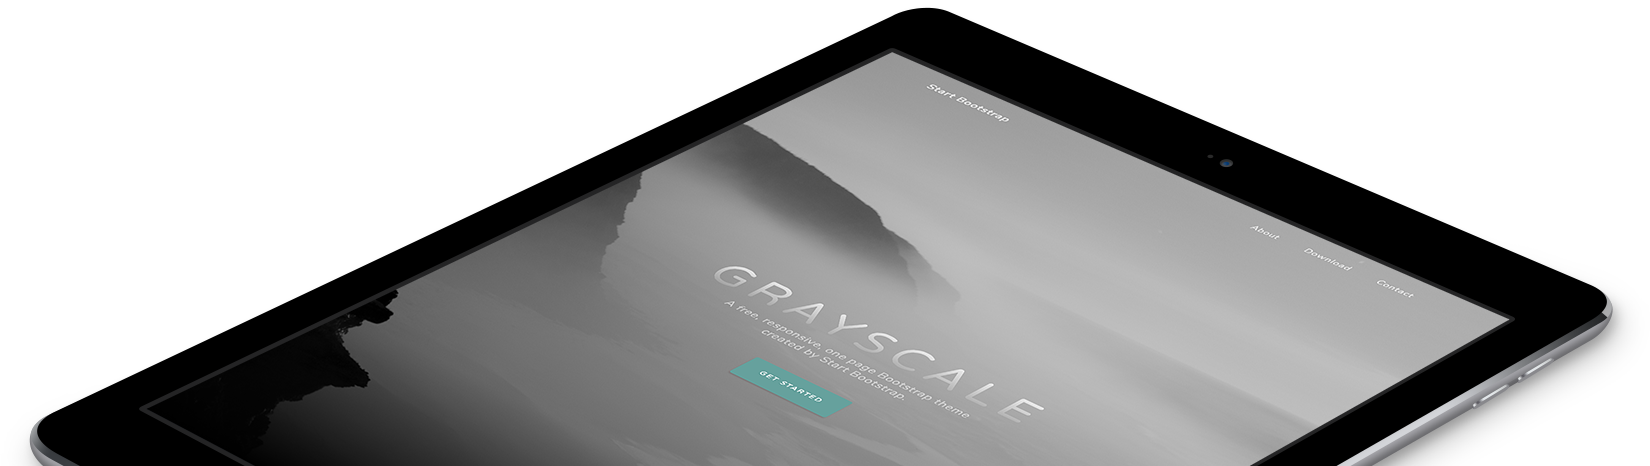
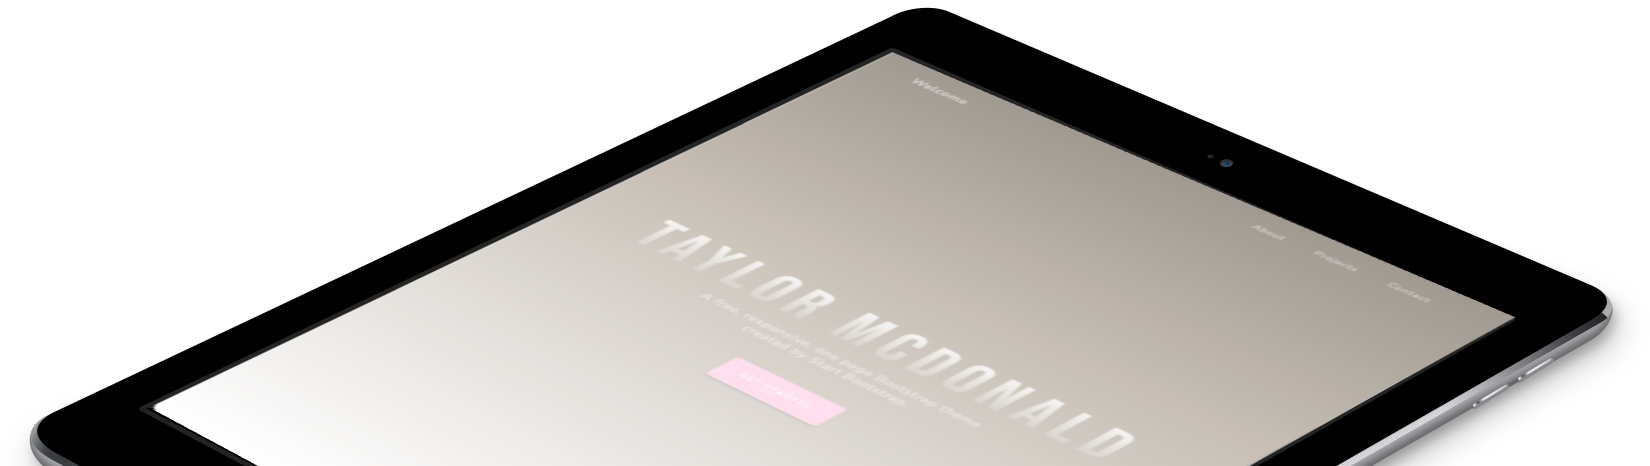
added second edited files

diff --git a/index.html b/index.html
@@ -14,12 +14,18 @@
         <link href="https://fonts.googleapis.com/css?family=Nunito:200,200i,300,300i,400,400i,600,600i,700,700i,800,800i,900,900i" rel="stylesheet" />
         <!-- Core theme CSS (includes Bootstrap)-->
         <link href="css/styles.css" rel="stylesheet" />
+
+
+        <!--added things tehe-->
+        <link rel="preconnect" href="https://fonts.googleapis.com">
+<link rel="preconnect" href="https://fonts.gstatic.com" crossorigin>
+<link href="https://fonts.googleapis.com/css2?family=Bebas+Neue&display=swap" rel="stylesheet">
     </head>
     <body id="page-top">
         <!-- Navigation-->
         <nav class="navbar navbar-expand-lg navbar-light fixed-top" id="mainNav">
             <div class="container px-4 px-lg-5">
-                <a class="navbar-brand" href="#page-top">Start Bootstrap</a>
+                <a class="navbar-brand" href="#page-top">Welcome</a>
                 <button class="navbar-toggler navbar-toggler-right" type="button" data-bs-toggle="collapse" data-bs-target="#navbarResponsive" aria-controls="navbarResponsive" aria-expanded="false" aria-label="Toggle navigation">
                     Menu
                     <i class="fas fa-bars"></i>
@@ -38,7 +44,7 @@
             <div class="container px-4 px-lg-5 d-flex h-100 align-items-center justify-content-center">
                 <div class="d-flex justify-content-center">
                     <div class="text-center">
-                        <h1 class="mx-auto my-0 text-uppercase">Grayscale</h1>
+                        <h1 class="mx-auto my-0 text-uppercase">Taylor McDonald</h1>
                         <h2 class="text-white-50 mx-auto mt-2 mb-5">A free, responsive, one page Bootstrap theme created by Start Bootstrap.</h2>
                         <a class="btn btn-primary" href="#about">Get Started</a>
                     </div>
@@ -50,8 +56,8 @@
             <div class="container px-4 px-lg-5">
                 <div class="row gx-4 gx-lg-5 justify-content-center">
                     <div class="col-lg-8">
-                        <h2 class="text-white mb-4">Built with Bootstrap 5</h2>
-                        <p class="text-white-50">
+                        <h2 style="color: #9B7D61;">ABOUT ME</h2>
+                        <p style="color: #9B7D61;"> 
                             Grayscale is a free Bootstrap theme created by Start Bootstrap. It can be yours right now, simply download the template on
                             <a href="https://startbootstrap.com/theme/grayscale/">the preview page.</a>
                             The theme is open source, and you can use it for any purpose, personal or commercial.
@@ -66,14 +72,23 @@
             <div class="container px-4 px-lg-5">
                 <!-- Featured Project Row-->
                 <div class="row gx-0 mb-4 mb-lg-5 align-items-center">
-                    <div class="col-xl-8 col-lg-7"><img class="img-fluid mb-3 mb-lg-0" src="assets/img/bg-masthead.jpg" alt="..." /></div>
+                    <div class="col-xl-8 col-lg-7"><img class="img-fluid mb-3 mb-lg-0" src="assets/img/ss1.png" alt="..." /></div>
                     <div class="col-xl-4 col-lg-5">
                         <div class="featured-text text-center text-lg-left">
-                            <h4>Shoreline</h4>
-                            <p class="text-black-50 mb-0">Grayscale is open source and MIT licensed. This means you can use it for any project - even commercial projects! Download it, customize it, and publish your website!</p>
+                            <h4>EUVRAIN</h4>
+                            <p class="text-black-50 mb-0">Euvrain is my first personal website. This interactive website showcases a modern, Y2K-inspired design Madlib generator and a 'Guess the Number' game, both built using HTML, CSS, and JavaScript. The Madlib generator allows users to create short funny and engaging stories by filling in blanks with their own words. The 'Guess the Number' game challenges players to guess a randomly generated number with a celebratory confetti animation for correct guesses.  I also feature some 3D characters I made on Blender.</p>
                         </div>
                     </div>
                 </div>
+
+                <section > <div class="project-text w-100 my-auto text-center text-lg-left">
+                    <h1 class="text-black" id="WIP">Works In Progress</h1>
+                    
+                </div>
+            
+                </section>
+
+
                 <!-- Project One Row-->
                 <div class="row gx-0 mb-5 mb-lg-0 justify-content-center">
                     <div class="col-lg-6"><img class="img-fluid" src="assets/img/demo-image-01.jpg" alt="..." /></div>
@@ -81,8 +96,8 @@
                         <div class="bg-black text-center h-100 project">
                             <div class="d-flex h-100">
                                 <div class="project-text w-100 my-auto text-center text-lg-left">
-                                    <h4 class="text-white">Misty</h4>
-                                    <p class="mb-0 text-white-50">An example of where you can put an image of a project, or anything else, along with a description.</p>
+                                    <h4 class="text-white">To-Do List App</h4>
+                                    <p class="mb-0 text-white-50">A To-Do List app designed to help people with ADHD manage their tasks more effectively. It will integrate features tailored to reduce the feeling of being overwhelmed, maintain focus, and encourage productivity. The app will provide a supportive and user-friendly interface that accommodates the needs of individuals with ADHD, promoting a balanced and organized approach to daily activities.</p>
                                 </div>
                             </div>
                         </div>
@@ -95,8 +110,8 @@
                         <div class="bg-black text-center h-100 project">
                             <div class="d-flex h-100">
                                 <div class="project-text w-100 my-auto text-center text-lg-right">
-                                    <h4 class="text-white">Mountains</h4>
-                                    <p class="mb-0 text-white-50">Another example of a project with its respective description. These sections work well responsively as well!</p>
+                                    <h4 class="text-white">AI Plant/Crop Health Monitor</h4>
+                                    <p class="mb-0 text-white-50">An AI-driven crop health monitoring and management system designed to help gardeners and farmers optimize their agricultural practices. Utilizing advanced computer vision and machine learning techniques, this app will provide real-time analysis and insights into the health of crops, enabling gardeners/farmers to take proactive measures to prevent and mitigate plant/crop damage</p>
                                 </div>
                             </div>
                         </div>
@@ -109,8 +124,7 @@
             <div class="container px-4 px-lg-5">
                 <div class="row gx-4 gx-lg-5">
                     <div class="col-md-10 col-lg-8 mx-auto text-center">
-                        <i class="far fa-paper-plane fa-2x mb-2 text-white"></i>
-                        <h2 class="text-white mb-5">Subscribe to receive updates!</h2>
+                      
                         <!-- * * * * * * * * * * * * * * *-->
                         <!-- * * SB Forms Contact Form * *-->
                         <!-- * * * * * * * * * * * * * * *-->
@@ -118,80 +132,43 @@
                         <!-- To make this form functional, sign up at-->
                         <!-- https://startbootstrap.com/solution/contact-forms-->
                         <!-- to get an API token!-->
-                        <form class="form-signup" id="contactForm" data-sb-form-api-token="API_TOKEN">
-                            <!-- Email address input-->
-                            <div class="row input-group-newsletter">
-                                <div class="col"><input class="form-control" id="emailAddress" type="email" placeholder="Enter email address..." aria-label="Enter email address..." data-sb-validations="required,email" /></div>
-                                <div class="col-auto"><button class="btn btn-primary disabled" id="submitButton" type="submit">Notify Me!</button></div>
-                            </div>
-                            <div class="invalid-feedback mt-2" data-sb-feedback="emailAddress:required">An email is required.</div>
-                            <div class="invalid-feedback mt-2" data-sb-feedback="emailAddress:email">Email is not valid.</div>
-                            <!-- Submit success message-->
-                            <!---->
-                            <!-- This is what your users will see when the form-->
-                            <!-- has successfully submitted-->
-                            <div class="d-none" id="submitSuccessMessage">
-                                <div class="text-center mb-3 mt-2 text-white">
-                                    <div class="fw-bolder">Form submission successful!</div>
-                                    To activate this form, sign up at
-                                    <br />
-                                    <a href="https://startbootstrap.com/solution/contact-forms">https://startbootstrap.com/solution/contact-forms</a>
-                                </div>
-                            </div>
-                            <!-- Submit error message-->
-                            <!---->
-                            <!-- This is what your users will see when there is-->
-                            <!-- an error submitting the form-->
-                            <div class="d-none" id="submitErrorMessage"><div class="text-center text-danger mb-3 mt-2">Error sending message!</div></div>
-                        </form>
+                       
                     </div>
                 </div>
             </div>
         </section>
+
+
         <!-- Contact-->
         <section class="contact-section bg-black">
             <div class="container px-4 px-lg-5">
                 <div class="row gx-4 gx-lg-5">
-                    <div class="col-md-4 mb-3 mb-md-0">
-                        <div class="card py-4 h-100">
-                            <div class="card-body text-center">
-                                <i class="fas fa-map-marked-alt text-primary mb-2"></i>
-                                <h4 class="text-uppercase m-0">Address</h4>
-                                <hr class="my-4 mx-auto" />
-                                <div class="small text-black-50">4923 Market Street, Orlando FL</div>
-                            </div>
-                        </div>
-                    </div>
+                    
+                    <div class="container px-4 px-lg-5 align-items-center justify-content-center">
+                        <div class="d-flex justify-content-center">
+
                     <div class="col-md-4 mb-3 mb-md-0">
                         <div class="card py-4 h-100">
                             <div class="card-body text-center">
                                 <i class="fas fa-envelope text-primary mb-2"></i>
                                 <h4 class="text-uppercase m-0">Email</h4>
                                 <hr class="my-4 mx-auto" />
-                                <div class="small text-black-50"><a href="#!">hello@yourdomain.com</a></div>
+                                <div class="small text-black-50"><a href="#!">taylormcdoc@gmail.com</a></div>
                             </div>
                         </div>
                     </div>
-                    <div class="col-md-4 mb-3 mb-md-0">
-                        <div class="card py-4 h-100">
-                            <div class="card-body text-center">
-                                <i class="fas fa-mobile-alt text-primary mb-2"></i>
-                                <h4 class="text-uppercase m-0">Phone</h4>
-                                <hr class="my-4 mx-auto" />
-                                <div class="small text-black-50">+1 (555) 902-8832</div>
-                            </div>
-                        </div>
+                    </div>
                     </div>
                 </div>
                 <div class="social d-flex justify-content-center">
-                    <a class="mx-2" href="#!"><i class="fab fa-twitter"></i></a>
-                    <a class="mx-2" href="#!"><i class="fab fa-facebook-f"></i></a>
-                    <a class="mx-2" href="#!"><i class="fab fa-github"></i></a>
+                    <a class="mx-2" href="https://www.instagram.com/euvrain?igsh=MTVnaXRyaXdyeWNlbA=="><i class="fab fa-instagram"></i></a>
+                    <a class="mx-2" href="https://www.linkedin.com/in/taylormarie/"><i class="fab fa-linkedin"></i></a>
+                    <a class="mx-2" href=""><i class="fab fa-github"></i></a>
                 </div>
             </div>
         </section>
         <!-- Footer-->
-        <footer class="footer bg-black small text-center text-white-50"><div class="container px-4 px-lg-5">Copyright &copy; Your Website 2023</div></footer>
+        <footer class="footer bg-black small text-center text-white-50"><div class="container px-4 px-lg-5">Copyright &copy; Taylor M. 2024</div></footer>
         <!-- Bootstrap core JS-->
         <script src="https://cdn.jsdelivr.net/npm/bootstrap@5.2.3/dist/js/bootstrap.bundle.min.js"></script>
         <!-- Core theme JS-->

diff --git a/css/styles.css b/css/styles.css
@@ -34,10 +34,10 @@
   --bs-gray-700: #495057;
   --bs-gray-800: #343a40;
   --bs-gray-900: #212529;
-  --bs-primary: #64a19d;
+  --bs-primary: #FFDFED;;
   --bs-secondary: #7464a1;
   --bs-success: #67c29c;
-  --bs-info: #1cabc4;
+  --bs-info: #FFDFED;
   --bs-warning: #e4c662;
   --bs-danger: #a16468;
   --bs-light: #f8f9fa;
@@ -77,8 +77,8 @@
   --bs-border-radius-xl: 1rem;
   --bs-border-radius-2xl: 2rem;
   --bs-border-radius-pill: 50rem;
-  --bs-link-color: #64a19d;
-  --bs-link-hover-color: #50817e;
+  --bs-link-color: #FFDFED;;
+  --bs-link-hover-color: #FFDFED;;
   --bs-code-color: #d63384;
   --bs-highlight-bg: #faf4e0;
 }
@@ -1301,6 +1301,7 @@ progress {
   .col-lg-8 {
     flex: 0 0 auto;
     width: 66.66666667%;
+    font-family: 'Bebas Neue', sans-serif;
   }
   .col-lg-9 {
     flex: 0 0 auto;
@@ -1454,6 +1455,7 @@ progress {
   .col-xl-4 {
     flex: 0 0 auto;
     width: 33.33333333%;
+    
   }
   .col-xl-5 {
     flex: 0 0 auto;
@@ -2849,10 +2851,10 @@ textarea.form-control-lg {
 
 .btn-primary {
   --bs-btn-color: #fff;
-  --bs-btn-bg: #64a19d;
+  --bs-btn-bg: #FFDFED;
   --bs-btn-border-color: #64a19d;
   --bs-btn-hover-color: #fff;
-  --bs-btn-hover-bg: #558985;
+  --bs-btn-hover-bg: #FFC5DF;
   --bs-btn-hover-border-color: #50817e;
   --bs-btn-focus-shadow-rgb: 123, 175, 172;
   --bs-btn-active-color: #fff;
@@ -7803,6 +7805,7 @@ textarea.form-control-lg {
 
 .mb-2 {
   margin-bottom: 0.5rem !important;
+  color: #FFDFED;
 }
 
 .mb-3 {
@@ -8156,9 +8159,15 @@ textarea.form-control-lg {
 .text-lowercase {
   text-transform: lowercase !important;
 }
+.bebas-neue-regular {
+  font-family: "Bebas Neue", sans-serif;
+  font-weight: 400;
+  font-style: normal;
+}
 
 .text-uppercase {
   text-transform: uppercase !important;
+  font-family: 'Bebas Neue', sans-serif;
 }
 
 .text-capitalize {
@@ -8182,7 +8191,8 @@ textarea.form-control-lg {
 /* rtl:end:remove */
 .text-primary {
   --bs-text-opacity: 1;
-  color: rgba(var(--bs-primary-rgb), var(--bs-text-opacity)) !important;
+ 
+  color: #FFDFED;
 }
 
 .text-secondary {
@@ -11069,14 +11079,20 @@ body {
   height: auto;
   min-height: 35rem;
   padding: 15rem 0;
-  background: linear-gradient(to bottom, rgba(0, 0, 0, 0.3) 0%, rgba(0, 0, 0, 0.7) 75%, #000 100%), url("../assets/img/bg-masthead.jpg");
+  background: linear-gradient(to bottom, rgba(0, 0, 0, 0.3) 0%, rgba(0, 0, 0, 0.1) 35%, #fff 100%), url("../assets/img/offwhite.jpg");
   background-position: center;
   background-repeat: no-repeat;
   background-attachment: scroll;
   background-size: cover;
 }
+.bebas-neue-regular {
+  font-family: "Bebas Neue", sans-serif;
+  font-weight: 400;
+  font-style: normal;
+}
+
 .masthead h1, .masthead .h1 {
-  font-family: "Varela Round", -apple-system, BlinkMacSystemFont, "Segoe UI", Roboto, "Helvetica Neue", Arial, sans-serif, "Apple Color Emoji", "Segoe UI Emoji", "Segoe UI Symbol", "Noto Color Emoji";
+  font-family: "Bebas Neue", -apple-system, BlinkMacSystemFont, "Segoe UI", Roboto, "Helvetica Neue", Arial, sans-serif, "Apple Color Emoji", "Segoe UI Emoji", "Segoe UI Symbol", "Noto Color Emoji";
   font-size: 2.5rem;
   line-height: 2.5rem;
   letter-spacing: 0.8rem;
@@ -11113,12 +11129,18 @@ body {
 
 .about-section {
   padding-top: 10rem;
-  background: linear-gradient(to bottom, #000 0%, rgba(0, 0, 0, 0.9) 75%, rgba(0, 0, 0, 0.8) 100%);
+  background: linear-gradient(to bottom, #fff 0%, rgba(f, f, f, 0.9) 75%, rgba(222, 211, 195, 0.8)  100%);
 }
 .about-section p {
   margin-bottom: 5rem;
 }
 
+#id{
+  color: #9B7D61;
+}
+#WIP{
+  font-family: 'Bebas Neue', sans-serif;
+}
 .projects-section {
   padding: 10rem 0;
 }
@@ -11141,15 +11163,15 @@ body {
   }
 }
 
-.signup-section {
+.contact-section {
   padding: 10rem 0;
-  background: linear-gradient(to bottom, rgba(0, 0, 0, 0.1) 0%, rgba(0, 0, 0, 0.5) 75%, #000 100%), url("../assets/img/bg-signup.jpg");
+  background: linear-gradient(to bottom, rgba(0, 0, 0, 0.1) 0%, rgba(0, 0, 0, 0.5) 75%, #000 100%), url("../assets/img/cats.jpg");
   background-position: center;
   background-repeat: no-repeat;
   background-attachment: scroll;
   background-size: cover;
 }
-.signup-section .form-signup input {
+.contact-section .form-signup input {
   box-shadow: 0 0.1875rem 0.1875rem 0 rgba(0, 0, 0, 0.1) !important;
   padding: 1.25rem 2rem;
   height: auto;
